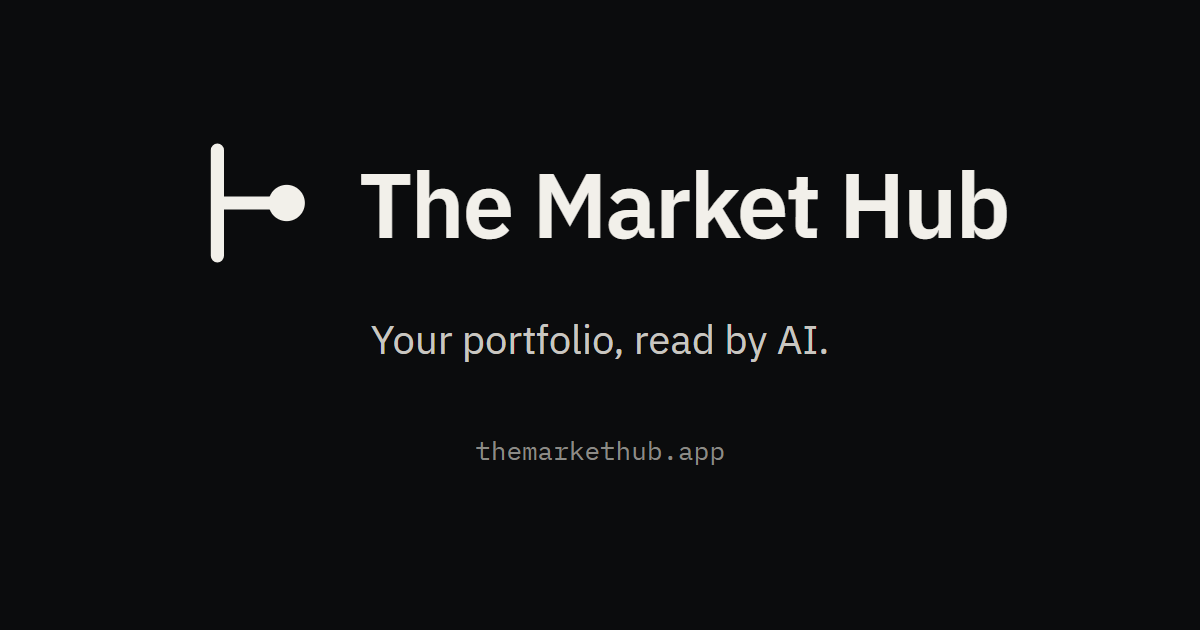
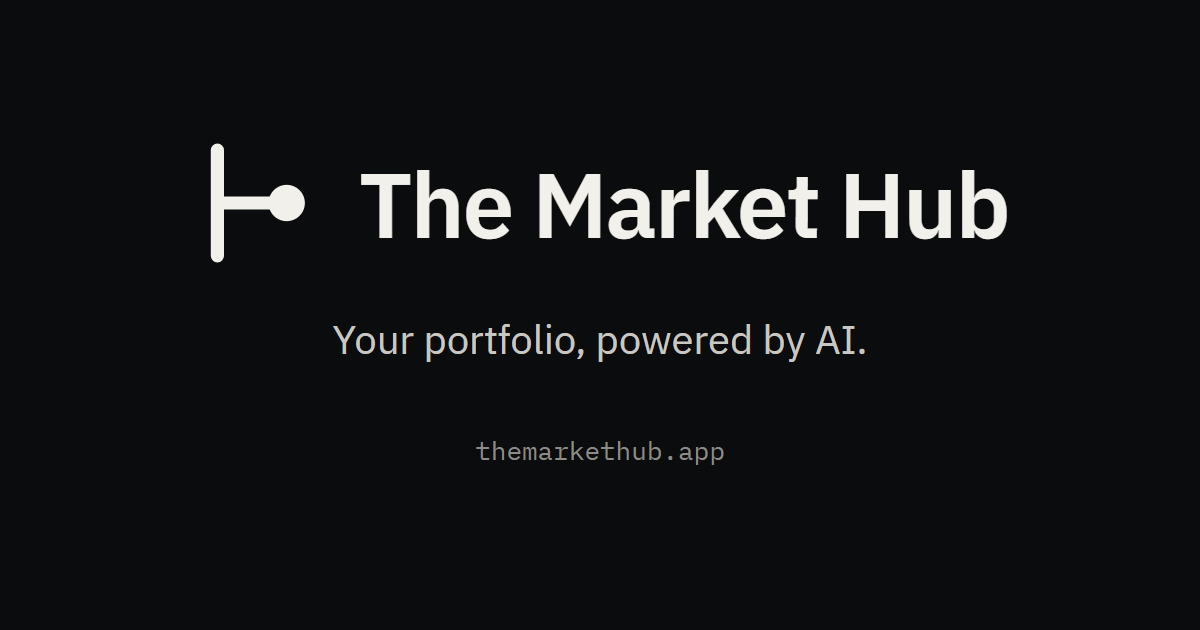
My Hub as the main way in, and "powered by AI"
The header's main button for visitors is now "Open My Hub" (with "Sign in" beside it), and for
signed-in users the My Hub button is the primary one. On the home page every way in says "Open My
Hub, it's free", a new band shows what My Hub holds with a drawing of its sidebar, and a dock at
the foot of the window keeps the way in at hand for visitors. The tagline becomes "Your
portfolio, powered by AI", in the page, its title and the share card.

Changed region(s): [[0.2775, 0.5127, 0.7092, 0.573]]

diff --git a/docs/HANDOFF.md b/docs/HANDOFF.md
@@ -22,6 +22,27 @@ Decisiones del usuario:
 
 ## Dónde estamos
 
+> 2026-10-16: **My Hub, la puerta principal, y "powered by AI".** El usuario pidió que entrar en
+> My Hub y probar las herramientas fuera mucho más claro ("el verdadero potencial de la web"):
+> - **Cabecera de todo el portal** (`AccountMenu.astro`): a quien no ha entrado, botón principal
+>   "Open My Hub" (a `/signin/`, que sin `next` acaba en My Hub) y "Sign in" como texto al lado
+>   (desde `sm`). Con sesión, "Open My Hub" pasa de fantasma a principal.
+> - **Portada**: el primer botón es "Open My Hub, it's free →" (las condiciones ya dicen que el
+>   sitio es gratis), más grande (`btn-big`), y debajo "Sign in with Google or your email". Tras
+>   las herramientas, una banda nueva `#hub`: "Your private space, with everything inside", qué
+>   hay dentro (Overview, Analysis, Watchlist, las cinco herramientas, con las palabras de sus
+>   propias páginas), una ventana dibujada con la barra lateral de My Hub y su CTA. Todos los
+>   botones de entrada dicen "Open My Hub, it's free" (con sesión, "Open My Hub" a `/dashboard/`).
+> - **Barra fija** abajo (`#dock`), solo para visitantes: "My Hub · your portfolio and five AI
+>   tools · free" con su botón. Se esconde mientras se ve la cabecera de la portada, la banda de My
+>   Hub o el cierre.
+> - **Eslogan**: "Your portfolio, read by AI" pasa a "Your portfolio, **powered** by AI" en el
+>   titular, el título, `og:image:alt` y `share.png` (`make share`, redibujada). En la app de
+>   móvil, las imágenes de la App Store (otro commit allí). No se han tocado los textos de
+>   `the-market-hub-media` que dicen "The market, read by AI" (cabecera de X y el vídeo de
+>   lanzamiento, ya publicados).
+> Probado en local a 1.024 px y 375 px. **Sin desplegar.**
+
 > 2026-10-16: **Las herramientas, a la vista en la portada.** El usuario pidió un CTA muy claro
 > hacia las herramientas, "el mayor asset de la web". En `index.astro`: la cabecera lleva al lado
 > de "Start with your portfolio" el botón "Explore the 5 AI tools ↓" (sustituye a "See today's
